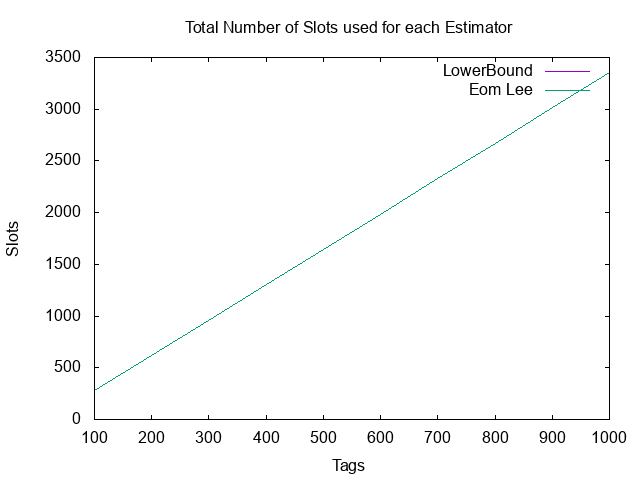
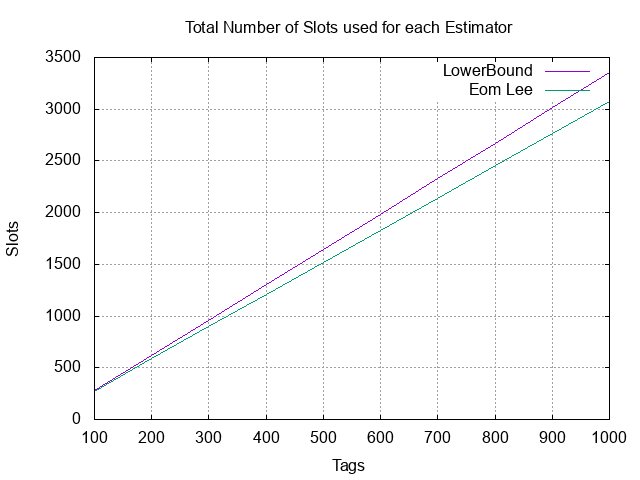
Adding Eom Lee estimator

diff --git a/src/eomlee.cpp b/src/eomlee.cpp
@@ -1,24 +1,23 @@
 class EomLee : public Estimator{
   public:
     int getNextFrame(int collisions, int empties, int sucess){
-      double b = 0;
-      double y = 2;
-      double ny = 2;
-      double eps = 0.001;
-      double l = collisions+empties+sucess;
-      double e = 2.71828;
-      while(1){
-        b = l/(y*collisions*sucess);
-        ny = (1-(1/pow(e, (1/b))))/(b*(1-(1+1/b)*(1/pow(e, (1/b)))));
-        printf("%.2lf\n", ny);
-
-        if(abs(ny-y) <= eps) {
-          break;
+        double eps = 0.001;
+        double y = 0;
+        double py = 2;
+        double l = collisions+empties+sucess;
+        double euler = 2.71828183;
+        while(1){
+          double b = l/(py*collisions+sucess);
+          double e = pow(euler, -(1/b));
+          double a = 1-e;
+          double eb = (1+(1/b))*e;
+          double nb = b*(1-eb);
+          y = a/nb;
+          if(abs(y-py) < eps){
+            break;
+          }
+          py = y;
         }
-        y = ny;
-      }
-      printf("%.2lf\n", ny);
-      return ceil(ny * collisions);
-
+        return ceil(y*collisions);
     }
 };

diff --git a/src/main.cpp b/src/main.cpp
@@ -46,7 +46,7 @@ int main(){
   EomLee eomLee;
 
   estimators.push_back(&lowerBound);
-  estimators.push_back(&lowerBound);
+  estimators.push_back(&eomLee);
 
   vector<Simulator> simulators;
 
